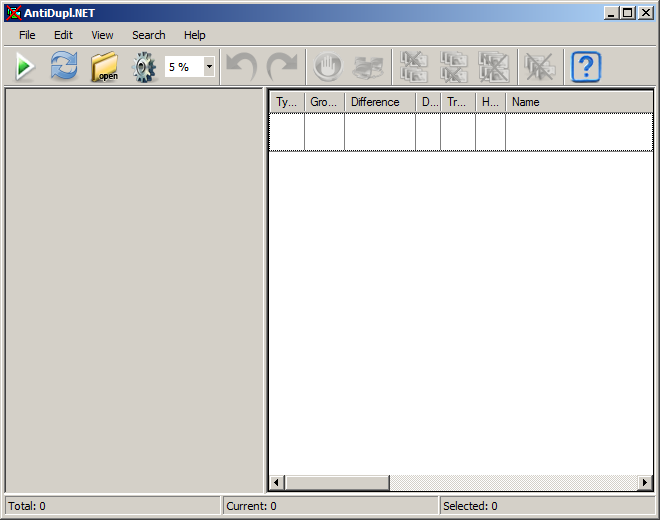
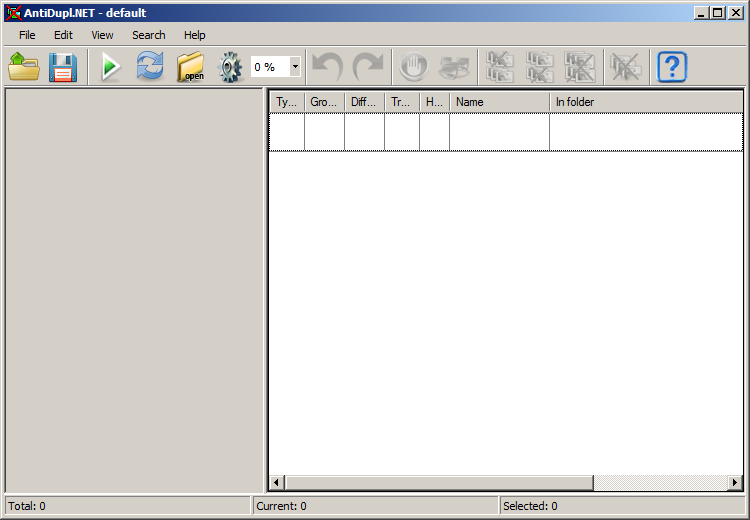
*updated help to version 2.3.1;

Changed region(s): [[0.0, 0.0, 0.9394, 0.9846], [0.5758, 0.1538, 1.0, 0.9846], [0.9091, 0.0, 1.0, 0.0615]]

diff --git a/data/help/english/menu.html b/data/help/english/menu.html
@@ -21,10 +21,12 @@ Menu <b>File</b> contains the following items:
 
 <ul>
  <li><p align="justify">
-<b>Open search profile</b> - clicking on the item you can load a previously saved search profile (search settings, search paths and search results).
+<img src="../../resources/images/ProfileOpenMenu.img" /> <b>Open search profile</b> - clicking on the item you can load a previously saved search profile (search settings, search paths and search results).
+This item is duplicated by button of the <a href="index.html?page=toolbar.html" target="_top">Tool Bar</a>.
  </p></li>
  <li><p align="justify">
-<b>Save search profile as</b> - this item allows you to save your current search profile with a new name.
+<img src="../../resources/images/ProfileSaveAsMenu.img" /> <b>Save search profile as</b> - this item allows you to save your current search profile with a new name.
+This item is duplicated by button of the <a href="index.html?page=toolbar.html" target="_top">Tool Bar</a>.
  </p></li>
  <li><p align="justify">
 <b>Exit</b> - when you click on this point the program will exit.

diff --git a/data/help/english/developers.html b/data/help/english/developers.html
@@ -27,7 +27,7 @@ The author expresses his personal thanks to:
 
 <ul>
  <li><p align="justify">
-Vasily Fedoseev for the graphic design for versions <b>1.2.1.0-1.4.0.0, 1.5.2.0-2.3.0</b>.
+Vasily Fedoseev for the graphic design for versions <b>1.2.1.0-1.4.0.0, 1.5.2.0-2.3.1</b>.
  </p></li>
  <li><p align="justify">
 Roberto Corica for the translation into Italian language for versions <b>1.5.3.0-1.6.0.0, 1.8.0.354-1.8.5.379</b>.
@@ -42,7 +42,7 @@ Jinn H. for the translation into Traditional Chinese language for versions <b>1.
 sls463 for the translation into Simplified Chinese language for versions <b>1.8.3.372-1.8.5.379, 2.1.1.466-2.2.6, 2.2.9-2.2.11</b>.
  </p></li>
  <li><p align="justify">
-Kai Evers for the translation into German language for versions <b>1.8.4.375-1.8.5.379, 2.1.0.452-2.2.6, 2.2.11</b>.
+Kai Evers for the translation into German language for versions <b>1.8.4.375-1.8.5.379, 2.1.0.452-2.2.6, 2.2.11, 2.3.1</b>.
  </p></li>
  <li><p align="justify">
 Ki Chun Park for the translation into Korean language for version <b>1.8.5.379</b>.

diff --git a/data/help/english/news.html b/data/help/english/news.html
@@ -7,6 +7,43 @@
 
 <h3>Last Updates</h3>
 
+<h3>2.3.1</h3>
+
+<p align=justify>
+There are following changes in the current version:
+</p>
+
+<ul>
+ <li><p align="justify">
+Added translation into Byelorussian.
+ </p></li>
+ <li><p align="justify">
+Added translation into German.
+ </p></li>
+ <li><p align="justify">
+The menu items "Open search profile" and "Save search profile as" was duplicated on the toolbar.
+ </p></li>
+</ul>
+
+<p align="justify">
+Also bugs were fixed:
+</p>
+
+<ul>
+ <li><p align="justify">
+The user can not save a search profile with zero number of results.
+ </p></li>
+ <li><p align="justify">
+The threshold difference in the toolbar was not updated when loading the search profile.
+ </p></li>
+ <li><p align="justify">
+Sometimes the program settings were not saved.
+ </p></li>
+  <li><p align="justify">
+The program can't load the results containing images with defects.
+ </p></li>
+ </ul>
+ 
 <h3>2.3.0</h3>
 
 <p align=justify>

diff --git a/data/help/english/toolbar.html b/data/help/english/toolbar.html
@@ -22,6 +22,14 @@ The following buttons are placed there:
 
 <ul>
  <li><p align="justify">
+<img src="../../resources/images/ProfileOpenButton.img" /> <b>Open search profile</b> - 
+clicking on the item you can load a previously saved search profile (search settings, search paths and search results).
+ </p></li>
+ <li><p align="justify">
+<img src="../../resources/images/ProfileSaveAsButton.img" /> <b>Save search profile as</b> - 
+this item allows you to save your current search profile with a new name.
+ </p></li>
+ <li><p align="justify">
 <img src="../../resources/images/StartButton.img" /> <b>Start search</b> - 
 if you click this item then the search will be started. 
  </p></li>

diff --git a/data/help/english/intro.html b/data/help/english/intro.html
@@ -20,7 +20,7 @@ In addition, the program can find images with some types of defects.
 
 <p align="justify">
 <b>AntiDupl.NET</b> program is free and open-source software.
-It is simple to use, has high speed and accuracy of work, supports Russian and English interface.
+It is simple to use, has high speed and accuracy of work, supports Russian, Byelorussian, German and English interface.
 </p>
 
 </td></tr></table></body>
